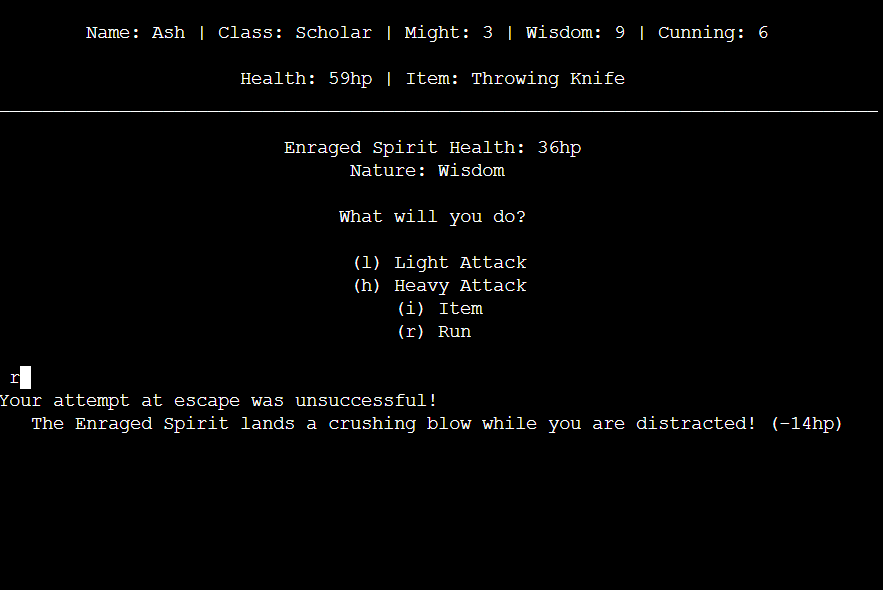
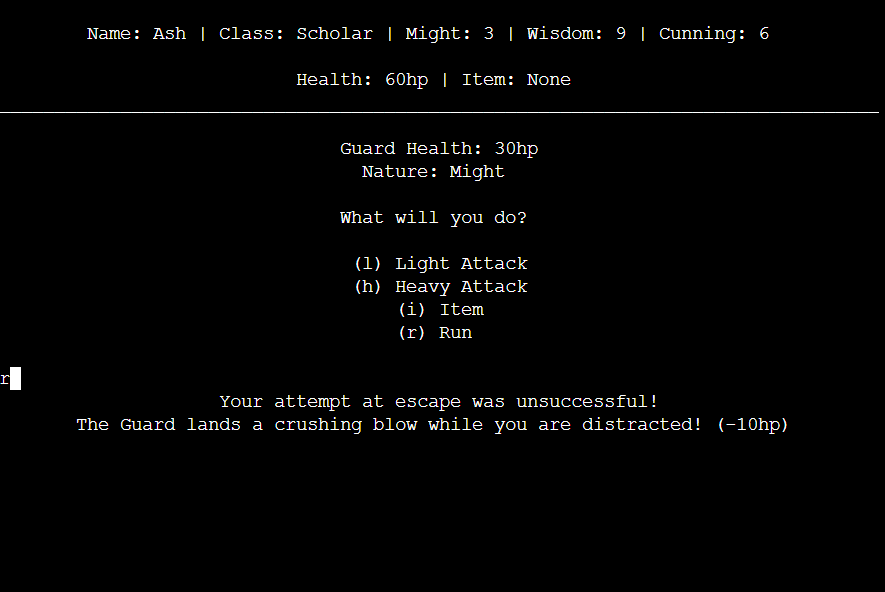
Add combat and item section to existing features

diff --git a/utilities.py b/utilities.py
@@ -38,7 +38,7 @@ def clear_terminal_in_game(player_character, player_name):
     center_print(player_info)
     center_print(health_item)
     center_print(
-        "_____________________________________________________________________"
+        " ____________________________________________________________________"
         "___________\n")
 
 
@@ -50,5 +50,5 @@ def clear_terminal_instructions():
         "Page 1 (1) | Page 2 (2) | Page 3 (3) | Page 4 (4) | Page 5 (5)"
     )
     center_print(
-        "_____________________________________________________________________"
+        " ____________________________________________________________________"
         "___________\n")

diff --git a/README.md b/README.md
@@ -122,6 +122,149 @@
 
     ![screenshot](documentation/features/feature-chapter-5b.png)
 
+    - ***Boss 1 (Champion's Spirit)***
+
+        - This chapter will play out if the player chooses to enter the Armory in chapter 5a. The player will enter combat with the Champion's Spirit boss. Upon defeating this enemy, they will be congratulated for completing the game, and be redirected to the homescreen.
+
+    ![screenshot](documentation/features/feature-boss01.png)
+
+    - ***Boss 2 (Protector of Knowledge)***
+
+        - This chapter will play out if the player chooses to enter the Library in chapter 5a. The player will enter combat with the Protector of Knowledge boss. Upon defeating this enemy, they will be congratulated for completing the game, and be redirected to the homescreen.
+
+    ![screenshot](documentation/features/feature-boss02.png)
+
+    - ***Boss 3 (Hoarder Dragon)***
+
+        - This chapter will play out if the player chooses to enter the Treasury in chapter 5a. The player will enter combat with the Hoarder Dragon boss. Upon defeating this enemy, they will be congratulated for completing the game, and be redirected to the homescreen.
+
+    ![screenshot](documentation/features/feature-boss03.png)
+
+- **Natures**
+
+    - Every enemy in the game will have a nature (displayed on combat screen). This nature detrmines which of the player's stats is used in the damage calculation when facing the enemy.
+
+![screenshot](documentation/features/feature-combat-enemy-nature.png) 
+
+![screenshot](assets/images/type-match-ups02.png)
+
+- **Combat**
+
+    - ***Combat Screen***
+
+        - The combat screen serves as the main means for the player to navigate their options when they encounter an enemy. This screen presents the player with 4 options (light attack, heavy attack, item, and run) shows important information, such as the enemy's name, current health, and nature.
+
+    ![screenshot](documentation/features/feature-combat.png)
+
+    - ***Attack***
+
+        - The light and heavy attack options will cause both the player and the enemy to attack. The damage dealt & recieved is determined by the enemies nature, and the value of the corrisponding stat used when facing that nature. It is also possible for the player and/or enemy's attack to miss, which for the player is greatly effected by which type of attack they choose. 
+        - Light Attack deals lower damage, but has a 90% chance to hit.
+        - Heavy Attack deals greater damages but has 50% to hit.
+
+    ![screenshot](documentation/features/feature-combat-light-attack.png)
+
+    - ***Accuracy***
+
+        - The player and enemy will both have a chance to miss when either light or heavy attack is selected. A missed attack results in the opposing party taking no damage.
+        - Light Attack deals lower damage, but has a 90% chance to hit.
+        - Heavy Attack deals greater damages but has 50% to hit.
+        - The enemy will always have an 80% chance to land an attack.
+
+    ![screenshot](documentation/features/feature-combat-missed-heavy-attack.png)
+
+    - ***Item***
+
+        - The item option will display the name & description of the currently held item. If the item is consumable, it will also prompt the player with the option of using the item.
+
+    ![screenshot](documentation/features/feature-combat-item.png)
+
+    - ***Run***
+
+        - The run option will have the player attempt to escape combat, which if successful, will progress to the next chapter, or between chapter decision. The player will also miss the possibility of an item-drop. If the run attempt fails, the player will take damage equal to the enemies upper damage output (This is an attribute of the Enemey class, and is not visible to the player). This damage is unaffected by enemy/player nature match-up. There is 30% success chance when attempting to run from combat.
+
+    ![screenshot](documentation/features/feature-combat-run-success.png)
+    ![screenshot](documentation/features/feature-combat-run-fail.png)
+
+    - ***Enemy Defeat***
+
+        - Upon reducing an enemy's health to 0, the enemy will be defeated which will progress the player to the next chapter/decision. Many enemies have a chance of dropping an item upon being defeated, for which the player will be prompted to choose if they want to pick the item up or not.
+
+    ![screenshot](documentation/features/feature-combat-item-drop.png)
+
+- **Player Defeat\Death**
+
+    - Defeat/Death can happen both inside and outside of combat, when the player's health reaches 0. Upon this event the player will be presented with a gameover screen, and be redirected to the homescreen.
+
+![screenshot](documentation/features/feature-defeat.png)
+
+
+- **Items**
+
+    - ***Item Drops***
+
+        - The combat screen serves as the main means for the player to navigate their options when they encounter an enemy. This screen presents the player with 4 options (light attack, heavy attack, item, and run) shows important information, such as the enemy's name, current health, and nature.
+
+    ![screenshot](documentation/features/feature-combat-item-drop.png)
+
+- ***Chainmail***
+
+        - Chainmail is an in-game item which reduces damage taken in combat by 2 while held.
+
+    ![screenshot](documentation/features/feature-item-chainmail.png)
+
+- ***Spiked Gloves***
+
+        - Spiked Gloves are an in-game item which increase the players Might stat by 3 while held.
+
+    ![screenshot](documentation/features/feature-item-spiked-gloves.png)
+
+- ***Hooded Cloak***
+
+        - Hooded Cloak is an in-game item which increase the players Cunning stat by 3 while held.
+
+    ![screenshot](documentation/features/feature-item-hooded-cloak.png)
+
+- ***Lexicon***
+
+        - Lexicon is an in-game item which increase the players Wisdom stat by 3 while held.
+
+    ![screenshot](documentation/features/feature-item-lexicon.png)
+
+- ***Focusing Crystal***
+
+        - Focusing Crystal is an in-game item which increase the player's accuracy by 10% while held. This means that light attacks have 100% chance to land, and heavy attacks have 60% chance to land.
+
+    ![screenshot](documentation/features/feature-item-focusing-crystal.png)
+
+- ***Apple***
+
+        - Apple an in-game item which restores +30hp to the players health when consumed in combat (One time use).
+
+    ![screenshot](documentation/features/feature-item-apple.png)
+
+
+- ***Throwing Knife***
+
+        - Throwing Knife is an in-game item which deals 15hp damage to the current enemy when used in combat (One time use). The player will not receive damage from the enemy when using this item.
+
+    ![screenshot](documentation/features/feature-combat-item-y.png)
+
+- ***Mirror Sphere***
+
+        - Mirror Sphere is an in-game item which has 2 different effects depending if it is used against a normal enemy or a boss (One time use).
+        - Normal Enemy - Allows the player guaranteed escape from combat when used.
+        - Boss - Gain +60hp & all player stats are doubled until combat is over.
+
+    ![screenshot](documentation/features/feature-item-mirror-sphere-enemy.png)
+
+    ![screenshot](documentation/features/feature-item-mirror-sphere-boss.png)
+
+
+
+
+
+
 🛑🛑🛑🛑🛑🛑🛑🛑🛑🛑 START OF NOTES (to be deleted)
 
 
